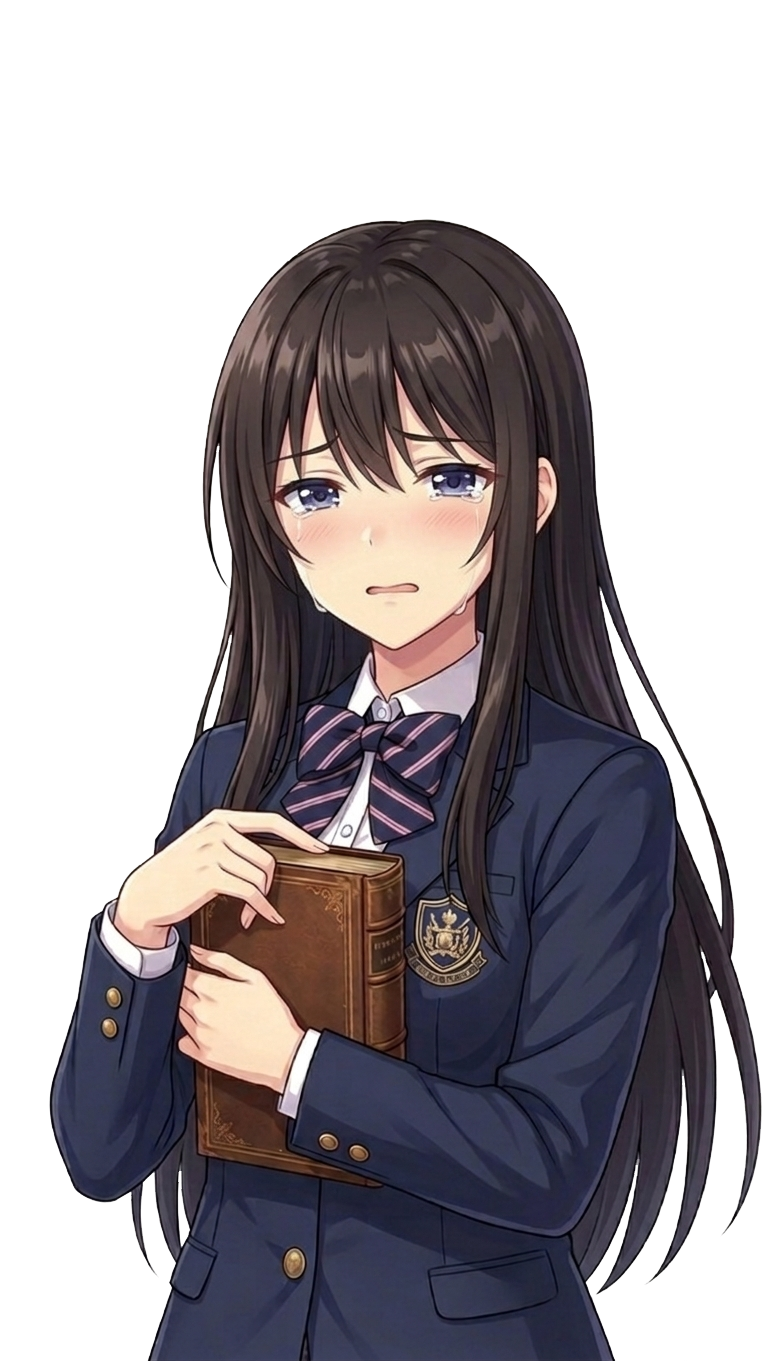
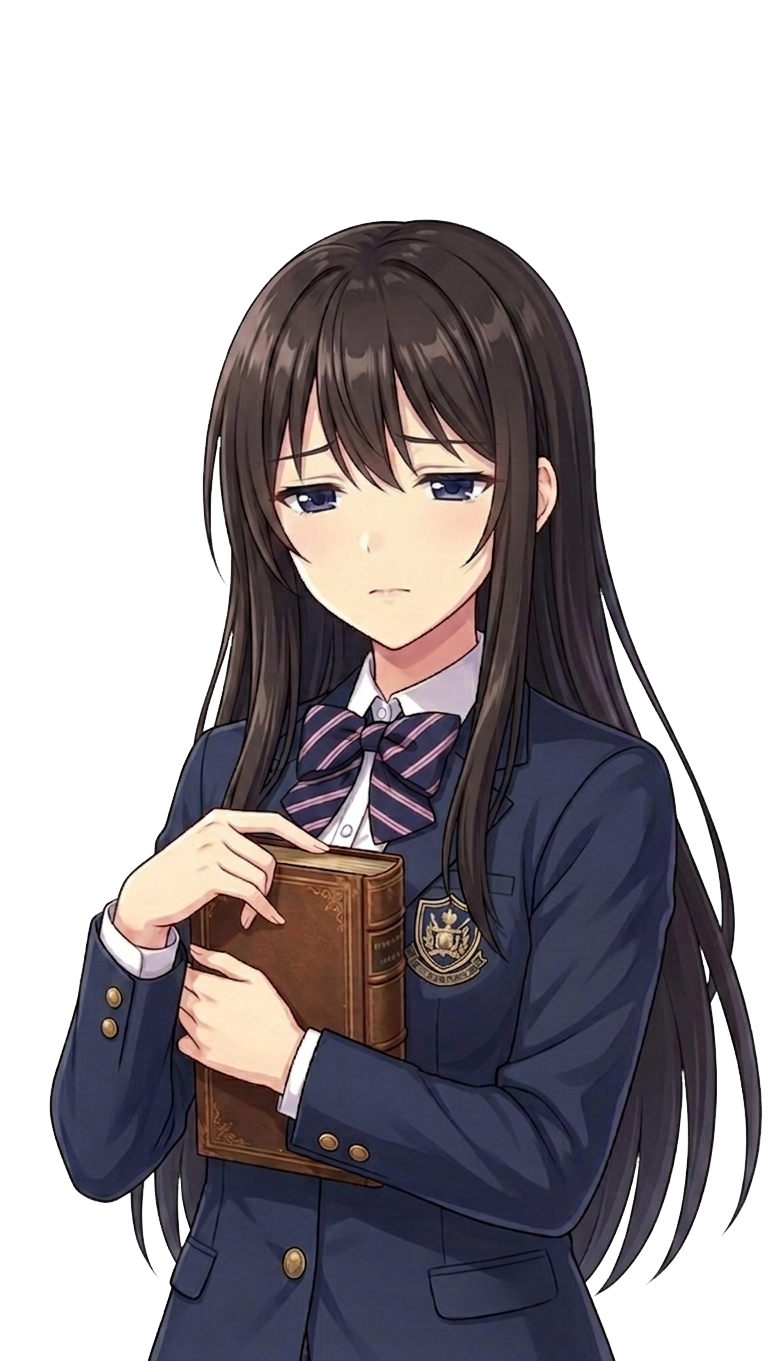
chore: 未コミットファイルを追加
- assets-src/chars: sad/crying表情の元データを追加（sakura/kotoha/mahiru）
- assets-src/デバッグ報告.md: バグ報告ファイルを追加
- assets/audio/se/camera_film_shutter.mp3: カメラSEファイルを追加

diff --git a/assets-src/デバッグ報告.md b/assets-src/デバッグ報告.md
@@ -1,0 +1,89 @@
+その他
+画像読み込みのフォールバック？
+→ ✅ 対応済み / プリロード時に解決済み拡張子を記録し、BG/スチルはフォールバックなしで即時適用。キャラは全PNG確定のため最初から .png 直接指定。404エラーを大幅削減。
+
+フォントに対する警告が出てる。実害はなさそう
+→ 未対応（実害なしのため保留）
+
+[Engine] Loaded: scenarios/chapter1.md のようなデバッグ情報が常に出力される
+→ ✅ 対応済み / 全 console.log/warn/error を VN_CONFIG.settings.debug フラグが true のときのみ出力するよう変更
+
+<meta name="apple-mobile-web-app-capable" content="yes"> is deprecated の警告
+→ ✅ 対応済み / mobile-web-app-capable を追加
+
+
+
+システム・UI
+重大事項：選択肢表示中にセーブ＆ロードできないのは致命的、最優先で修正すべし。
+→ ✅ 対応済み (P0) / commit: 選択肢表示中のセーブ/ロードをガード
+
+バグ：ロードするとBGMが再生されない。
+→ ✅ 対応済み (P1) / セーブデータに currentBGM を保存し、ロード時に再生するよう修正
+
+バグ：イベント画像表示中にセーブ、その後ロードしてもイベント絵が表示されす前後のシーン画像のまま進む。
+→ ✅ 対応済み (P1) / セーブデータに currentStill を保存し、ロード時に復元するよう修正
+
+バグ？：テキスト表示中にスキップを実行しても有効にはなってるが即実行はされず次のテキストとかスキップ開始。
+→ 未対応 (仕様として許容範囲と判断)
+
+バグ？：スキップ中にセーブやロード画面出せるけどスキップは継続されてる。
+→ ✅ 対応済み (P3) / _openSaveLoad() でモーダルを開く前に skipMode を解除するよう修正
+
+バグ？：ログ表示位置が最新位置に追従しない。前回の表示時のスクロール値を維持してるため。
+→ ✅ 対応済み (P3) / requestAnimationFrame を使い DOM 反映後にスクロール最下部へ移動するよう修正
+
+要望：confirmウインドウをゲームに合わせた装飾に。
+→ ✅ 対応済み / window.confirm() をゲームデザインに合わせたカスタムダイアログに変更
+
+要望：オートの速度設定とか。
+→ ✅ 対応済み / メニューバーに CONFIG ボタンを追加。遅め/普通/速め/爆速から選択可能。設定はlocalStorageに保存
+
+要望：スキップ中、画面クリックでもスキップ解除されないのは個人的に違和感
+→ ✅ 対応済み / クリック時にskipModeを解除するよう修正
+
+要望：スキップ/オートと同様にセーブ＆ロードもキーボード対応に。
+→ ✅ 対応済み / F5=セーブ、F7=ロード のショートカットを追加
+
+要望：セーブデータスロット数5個は少ない。
+→ ✅ 対応済み / スロット数を 5 → 10 に拡張
+
+要望：上書きセーブの確認ダイアログもあったほうが。
+→ ✅ 対応済み / 既存スロットへのセーブ時にカスタム確認ダイアログを表示
+
+情報：シーン切り替え時、初表示の背景だと読み込みにかかる時間で切り替えがワンテンポ遅れる、
+      切り替えエフェクト→テキスト進む→背景切り替え、って感じ。
+      表示済みの背景だとキャッシュが聞いてるのか特に違和感はない。
+→ ✅ 対応済み / プリロード時に解決済み拡張子を記録し、_changeBackground で new Image()+onload を経由せず即時適用するよう修正。初回・2回目ともに同じタイミングで切り替わる。
+情報：テキスト表示が常に1行単位なのが若干気になる。改行単位で次の表示になってしまってるというか。
+
+
+シーン
+cp1、転校生紹介後BGMがない
+→ ✅ 対応済み (P1) / _gotoLabel() から _stopBGM() を削除し、選択肢ジャンプ後もBGMが継続するよう修正
+
+cp2、最初の選択肢選択後BGMがない
+→ ✅ 対応済み (P1) / 同上
+
+cp2.昼食屋上、ことはずっと照れ顔なの違和感
+→ ✅ 対応済み (P2) / 写真撮影の話が終わったタイミングで @expr kotoha normal を追加
+
+cp2,図書館、ことはの表情指定甘い
+→ ✅ 対応済み (P2) / 「小さく笑った」→ shy、「借りてみます」→ happy を追加
+
+cp3、昼食屋上、カメラ撮影時のSEがセーブ画面を開いたときとかと同じなのはどうか？
+→ 未対応
+
+cp3、図書室、イベント絵の表示が短すぎる、表示時間をもう少し足すか表示した状態で少し会話進めてもいいかも
+→ ✅ 対応済み (P2) / スチル表示中に地の文を移動、@wait 1800 で表示時間を延長
+
+            同シーン、ことはいきなり泣き顔になるのは違和感、地の分でも触れないし。
+→ ✅ 対応済み (P2) / 泣き顔直前に「ことはの目が、一瞬遠くなった。」の地の文を追加
+
+            主人公がピアノをやってたのか？と尋ね昔は弾いていた、というくだりcp2でやってるよね
+→ ✅ 対応済み (P2) / 重複会話を削除し、前章への参照セリフに差し替え
+
+cp3、sakura、BGMがない
+→ ✅ 対応済み (P1) / _gotoLabel() からの _stopBGM() 削除で解消
+
+cp3,選択肢後BGMがない、最初の選択肢もそうだったから同様のバグかと
+→ ✅ 対応済み (P1) / 同上
